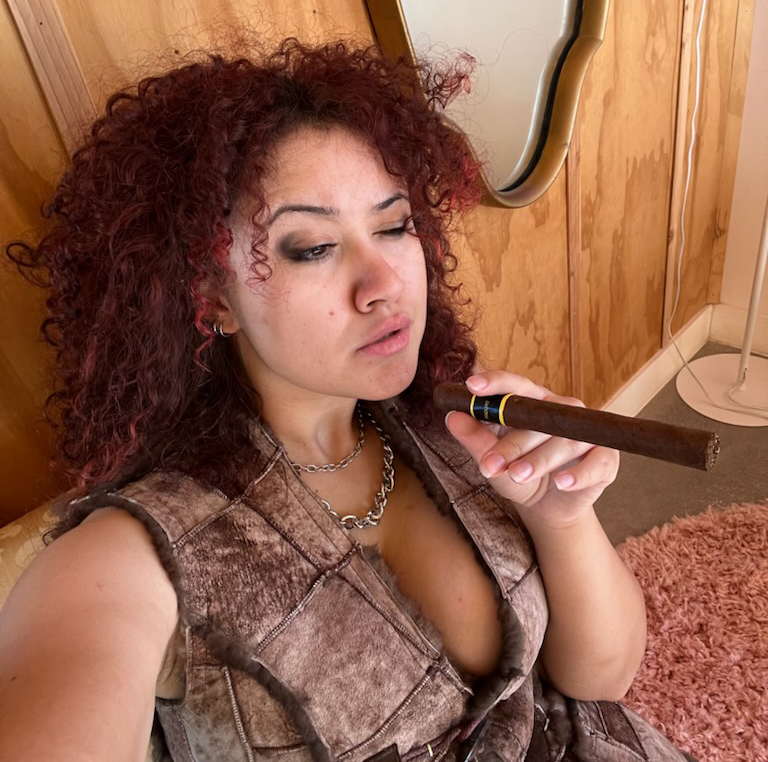
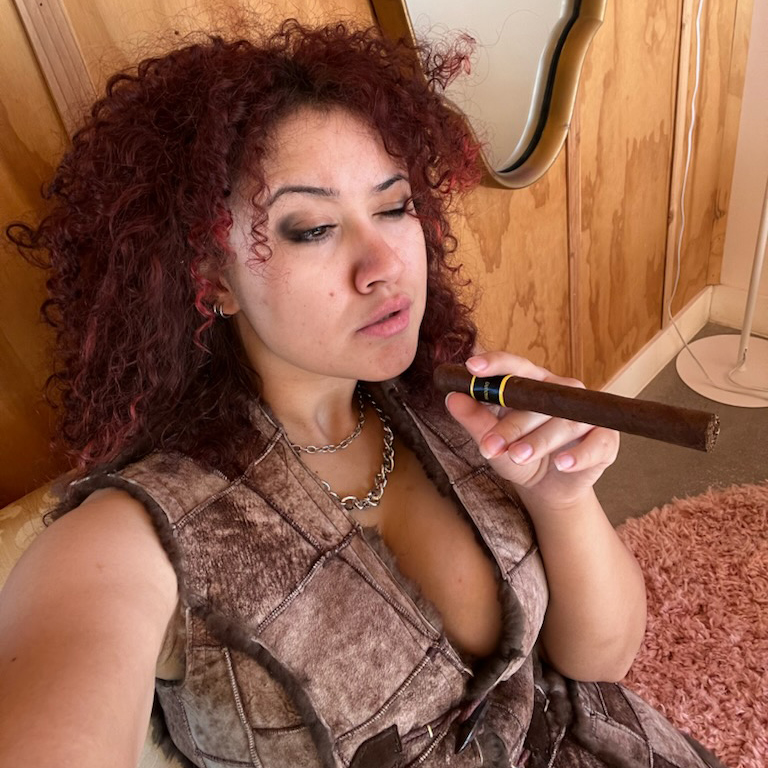
Add files via upload

diff --git a/profiles/benvolio/index.html b/profiles/benvolio/index.html
@@ -14,17 +14,17 @@
 <section id="all" class="modern-page modern-panel tab-panel">
 <div class="modern-grid"><aside class="modern-left">
  <article class="modern-card"><h2>Personal details</h2><p>• Lives in Mojave, CA</p><p>• Team Montague<br>• <a href="../../businesses/montagues-auto-repair/">Montague’s Auto Repair</a></p><p>• Romeo’s cousin</p><p>• Known for keeping the peace</p></article>
- <article class="modern-card"><h2>Friends <a class="see-all" href="#friends">See all friends</a></h2><div class="modern-friends-grid"><a class="modern-friend" href="../romeo-montague/"><img src="../../assets/romeo-profile.svg" alt="Romeo Montague"><b>Romeo Montague</b><small>Cousin</small></a><a class="modern-friend" href="../mercutio/"><img src="../../assets/friend-placeholder.svg" alt="Mercutio"><b>Mercutio</b><small>Friend</small></a><div class="modern-friend"><img src="../../assets/friend-placeholder.svg" alt="Friend photo placeholder"><b>Friend</b><small>Placeholder</small></div><div class="modern-friend"><img src="../../assets/friend-placeholder.svg" alt="Friend photo placeholder"><b>Friend</b><small>Placeholder</small></div><div class="modern-friend"><img src="../../assets/friend-placeholder.svg" alt="Friend photo placeholder"><b>Friend</b><small>Placeholder</small></div><div class="modern-friend"><img src="../../assets/friend-placeholder.svg" alt="Friend photo placeholder"><b>Friend</b><small>Placeholder</small></div></div></article>
+ <article class="modern-card"><h2>Friends <a class="see-all" href="#friends">See all friends</a></h2><div class="modern-friends-grid"><a class="modern-friend" href="../romeo-montague/"><img src="../../assets/romeo-profile.svg" alt="Romeo Montague"><b>Romeo Montague</b><small>Cousin</small></a><a class="modern-friend" href="../mercutio/"><img src="../../assets/mercutio-profile.jpg" alt="Mercutio"><b>Mercutio</b><small>Friend</small></a><div class="modern-friend"><img src="../../assets/friend-placeholder.svg" alt="Friend photo placeholder"><b>Friend</b><small>Placeholder</small></div><div class="modern-friend"><img src="../../assets/friend-placeholder.svg" alt="Friend photo placeholder"><b>Friend</b><small>Placeholder</small></div><div class="modern-friend"><img src="../../assets/friend-placeholder.svg" alt="Friend photo placeholder"><b>Friend</b><small>Placeholder</small></div><div class="modern-friend"><img src="../../assets/friend-placeholder.svg" alt="Friend photo placeholder"><b>Friend</b><small>Placeholder</small></div></div></article>
  <article class="modern-card"><h2>Photos <a class="see-all" href="#photos">See all photos</a></h2><div class="photo-grid"><img src="../../assets/benvolio-hanging.jpg" alt="Benvolio hanging out"><img src="../../assets/benvolio-cover.jpg" alt="Benvolio by the mural"><img src="../../assets/benvolio-profile.jpg" alt="Benvolio portrait"><div class="photo-placeholder">Photo placeholder</div><div class="photo-placeholder">Photo placeholder</div><div class="photo-placeholder">Photo placeholder</div><div class="photo-placeholder">Photo placeholder</div><div class="photo-placeholder">Photo placeholder</div><div class="photo-placeholder">Photo placeholder</div></div></article>
 </aside>
 <section class="feed">
  <article class="modern-card composer-placeholder"><img src="../../assets/benvolio-profile.jpg" alt=""><div class="composer-line">What's on your mind?</div></article>
- <article class="card post modern-card"><header><a href="./"><img src="../../assets/friend-placeholder.svg" alt=""></a><div><a href="./"><b>Benvolio</b></a><small>2 hrs · 🌐</small></div></header><p>Somebody has to be the reasonable one around here. Apparently today it’s me.</p><div class="summary"><span>👍 ❤ 31</span><span>4 comments</span></div><div class="actions"><button class="decorative">♡ Like</button><button class="decorative">▢ Comment</button><button class="decorative">↗ Share</button></div><div class="comments"><div class="comment"><a href="../mercutio/"><img src="../../assets/friend-placeholder.svg" alt="Mercutio"></a><div><a href="../mercutio/"><b>Mercutio</b></a><p>boring. do something irresponsible</p><small>Like · Reply</small></div></div><div class="comment"><a href="../romeo-montague/"><img src="../../assets/romeo-profile.svg" alt="Romeo Montague"></a><div><a href="../romeo-montague/"><b>Romeo Montague</b></a><p>Appreciated, coz.</p><small>Like · Reply</small></div></div></div></article><article class="card post modern-card"><header><a href="./"><img src="../../assets/friend-placeholder.svg" alt=""></a><div><a href="./"><b>Benvolio</b></a><small>2 days · 🌐</small></div></header><p>Coffee. Shop. Keep Merc from starting anything before noon. Solid plan.</p><div class="summary"><span>👍 ❤ 44</span><span>7 comments</span></div><div class="actions"><button class="decorative">♡ Like</button><button class="decorative">▢ Comment</button><button class="decorative">↗ Share</button></div><div class="comments"><div class="comment"><a href="../mercutio/"><img src="../../assets/friend-placeholder.svg" alt="Mercutio"></a><div><a href="../mercutio/"><b>Mercutio</b></a><p>counterpoint: no</p><small>Like · Reply</small></div></div><div class="comment"><a href="../romeo-montague/"><img src="../../assets/romeo-profile.svg" alt="Romeo Montague"></a><div><a href="../romeo-montague/"><b>Romeo Montague</b></a><p>Coffee first. Everything else second.</p><small>Like · Reply</small></div></div></div></article>
+ <article class="card post modern-card"><header><a href="./"><img src="../../assets/friend-placeholder.svg" alt=""></a><div><a href="./"><b>Benvolio</b></a><small>2 hrs · 🌐</small></div></header><p>Somebody has to be the reasonable one around here. Apparently today it’s me.</p><div class="summary"><span>👍 ❤ 31</span><span>4 comments</span></div><div class="actions"><button class="decorative">♡ Like</button><button class="decorative">▢ Comment</button><button class="decorative">↗ Share</button></div><div class="comments"><div class="comment"><a href="../mercutio/"><img src="../../assets/mercutio-profile.jpg" alt="Mercutio"></a><div><a href="../mercutio/"><b>Mercutio</b></a><p>boring. do something irresponsible</p><small>Like · Reply</small></div></div><div class="comment"><a href="../romeo-montague/"><img src="../../assets/romeo-profile.svg" alt="Romeo Montague"></a><div><a href="../romeo-montague/"><b>Romeo Montague</b></a><p>Appreciated, coz.</p><small>Like · Reply</small></div></div></div></article><article class="card post modern-card"><header><a href="./"><img src="../../assets/friend-placeholder.svg" alt=""></a><div><a href="./"><b>Benvolio</b></a><small>2 days · 🌐</small></div></header><p>Coffee. Shop. Keep Merc from starting anything before noon. Solid plan.</p><div class="summary"><span>👍 ❤ 44</span><span>7 comments</span></div><div class="actions"><button class="decorative">♡ Like</button><button class="decorative">▢ Comment</button><button class="decorative">↗ Share</button></div><div class="comments"><div class="comment"><a href="../mercutio/"><img src="../../assets/mercutio-profile.jpg" alt="Mercutio"></a><div><a href="../mercutio/"><b>Mercutio</b></a><p>counterpoint: no</p><small>Like · Reply</small></div></div><div class="comment"><a href="../romeo-montague/"><img src="../../assets/romeo-profile.svg" alt="Romeo Montague"></a><div><a href="../romeo-montague/"><b>Romeo Montague</b></a><p>Coffee first. Everything else second.</p><small>Like · Reply</small></div></div></div></article>
 </section></div></section>
 
 <section id="about" class="modern-panel single tab-panel" hidden><article class="modern-card"><h2>About Benvolio</h2><p>• Lives in Mojave, CA</p><p>• Team Montague</p><p>• Romeo’s cousin</p><p>• Known for keeping the peace</p><h3>Bio</h3><p>Cousin of Romeo. Like a brother. Usually the reasonable one.</p></article></section>
-<section id="posts" class="modern-panel single tab-panel" hidden><section class="feed"><article class="card post modern-card"><header><a href="./"><img src="../../assets/friend-placeholder.svg" alt=""></a><div><a href="./"><b>Benvolio</b></a><small>2 hrs · 🌐</small></div></header><p>Somebody has to be the reasonable one around here. Apparently today it’s me.</p><div class="summary"><span>👍 ❤ 31</span><span>4 comments</span></div><div class="actions"><button class="decorative">♡ Like</button><button class="decorative">▢ Comment</button><button class="decorative">↗ Share</button></div><div class="comments"><div class="comment"><a href="../mercutio/"><img src="../../assets/friend-placeholder.svg" alt="Mercutio"></a><div><a href="../mercutio/"><b>Mercutio</b></a><p>boring. do something irresponsible</p><small>Like · Reply</small></div></div><div class="comment"><a href="../romeo-montague/"><img src="../../assets/romeo-profile.svg" alt="Romeo Montague"></a><div><a href="../romeo-montague/"><b>Romeo Montague</b></a><p>Appreciated, coz.</p><small>Like · Reply</small></div></div></div></article><article class="card post modern-card"><header><a href="./"><img src="../../assets/friend-placeholder.svg" alt=""></a><div><a href="./"><b>Benvolio</b></a><small>2 days · 🌐</small></div></header><p>Coffee. Shop. Keep Merc from starting anything before noon. Solid plan.</p><div class="summary"><span>👍 ❤ 44</span><span>7 comments</span></div><div class="actions"><button class="decorative">♡ Like</button><button class="decorative">▢ Comment</button><button class="decorative">↗ Share</button></div><div class="comments"><div class="comment"><a href="../mercutio/"><img src="../../assets/friend-placeholder.svg" alt="Mercutio"></a><div><a href="../mercutio/"><b>Mercutio</b></a><p>counterpoint: no</p><small>Like · Reply</small></div></div><div class="comment"><a href="../romeo-montague/"><img src="../../assets/romeo-profile.svg" alt="Romeo Montague"></a><div><a href="../romeo-montague/"><b>Romeo Montague</b></a><p>Coffee first. Everything else second.</p><small>Like · Reply</small></div></div></div></article></section></section>
-<section id="friends" class="modern-panel single tab-panel" hidden><article class="modern-card"><h2>Friends</h2><div class="modern-friends-grid"><a class="modern-friend" href="../romeo-montague/"><img src="../../assets/romeo-profile.svg" alt="Romeo Montague"><b>Romeo Montague</b><small>Cousin</small></a><a class="modern-friend" href="../mercutio/"><img src="../../assets/friend-placeholder.svg" alt="Mercutio"><b>Mercutio</b><small>Friend</small></a><div class="modern-friend"><img src="../../assets/friend-placeholder.svg" alt="Friend photo placeholder"><b>Friend</b><small>Placeholder</small></div><div class="modern-friend"><img src="../../assets/friend-placeholder.svg" alt="Friend photo placeholder"><b>Friend</b><small>Placeholder</small></div><div class="modern-friend"><img src="../../assets/friend-placeholder.svg" alt="Friend photo placeholder"><b>Friend</b><small>Placeholder</small></div><div class="modern-friend"><img src="../../assets/friend-placeholder.svg" alt="Friend photo placeholder"><b>Friend</b><small>Placeholder</small></div></div></article></section>
+<section id="posts" class="modern-panel single tab-panel" hidden><section class="feed"><article class="card post modern-card"><header><a href="./"><img src="../../assets/friend-placeholder.svg" alt=""></a><div><a href="./"><b>Benvolio</b></a><small>2 hrs · 🌐</small></div></header><p>Somebody has to be the reasonable one around here. Apparently today it’s me.</p><div class="summary"><span>👍 ❤ 31</span><span>4 comments</span></div><div class="actions"><button class="decorative">♡ Like</button><button class="decorative">▢ Comment</button><button class="decorative">↗ Share</button></div><div class="comments"><div class="comment"><a href="../mercutio/"><img src="../../assets/mercutio-profile.jpg" alt="Mercutio"></a><div><a href="../mercutio/"><b>Mercutio</b></a><p>boring. do something irresponsible</p><small>Like · Reply</small></div></div><div class="comment"><a href="../romeo-montague/"><img src="../../assets/romeo-profile.svg" alt="Romeo Montague"></a><div><a href="../romeo-montague/"><b>Romeo Montague</b></a><p>Appreciated, coz.</p><small>Like · Reply</small></div></div></div></article><article class="card post modern-card"><header><a href="./"><img src="../../assets/friend-placeholder.svg" alt=""></a><div><a href="./"><b>Benvolio</b></a><small>2 days · 🌐</small></div></header><p>Coffee. Shop. Keep Merc from starting anything before noon. Solid plan.</p><div class="summary"><span>👍 ❤ 44</span><span>7 comments</span></div><div class="actions"><button class="decorative">♡ Like</button><button class="decorative">▢ Comment</button><button class="decorative">↗ Share</button></div><div class="comments"><div class="comment"><a href="../mercutio/"><img src="../../assets/mercutio-profile.jpg" alt="Mercutio"></a><div><a href="../mercutio/"><b>Mercutio</b></a><p>counterpoint: no</p><small>Like · Reply</small></div></div><div class="comment"><a href="../romeo-montague/"><img src="../../assets/romeo-profile.svg" alt="Romeo Montague"></a><div><a href="../romeo-montague/"><b>Romeo Montague</b></a><p>Coffee first. Everything else second.</p><small>Like · Reply</small></div></div></div></article></section></section>
+<section id="friends" class="modern-panel single tab-panel" hidden><article class="modern-card"><h2>Friends</h2><div class="modern-friends-grid"><a class="modern-friend" href="../romeo-montague/"><img src="../../assets/romeo-profile.svg" alt="Romeo Montague"><b>Romeo Montague</b><small>Cousin</small></a><a class="modern-friend" href="../mercutio/"><img src="../../assets/mercutio-profile.jpg" alt="Mercutio"><b>Mercutio</b><small>Friend</small></a><div class="modern-friend"><img src="../../assets/friend-placeholder.svg" alt="Friend photo placeholder"><b>Friend</b><small>Placeholder</small></div><div class="modern-friend"><img src="../../assets/friend-placeholder.svg" alt="Friend photo placeholder"><b>Friend</b><small>Placeholder</small></div><div class="modern-friend"><img src="../../assets/friend-placeholder.svg" alt="Friend photo placeholder"><b>Friend</b><small>Placeholder</small></div><div class="modern-friend"><img src="../../assets/friend-placeholder.svg" alt="Friend photo placeholder"><b>Friend</b><small>Placeholder</small></div></div></article></section>
 <section id="photos" class="modern-panel single tab-panel" hidden><article class="modern-card"><h2>Photos</h2><div class="photo-grid"><img src="../../assets/benvolio-hanging.jpg" alt="Benvolio hanging out"><img src="../../assets/benvolio-cover.jpg" alt="Benvolio by the mural"><img src="../../assets/benvolio-profile.jpg" alt="Benvolio portrait"><div class="photo-placeholder">Photo placeholder</div><div class="photo-placeholder">Photo placeholder</div><div class="photo-placeholder">Photo placeholder</div><div class="photo-placeholder">Photo placeholder</div><div class="photo-placeholder">Photo placeholder</div><div class="photo-placeholder">Photo placeholder</div></div></article></section>
 <section id="videos" class="modern-panel single tab-panel" hidden><article class="modern-card"><h2>Videos</h2><div class="placeholder-banner">Video placeholder<br>Production videos can be added here.</div></article></section>
 </main>
